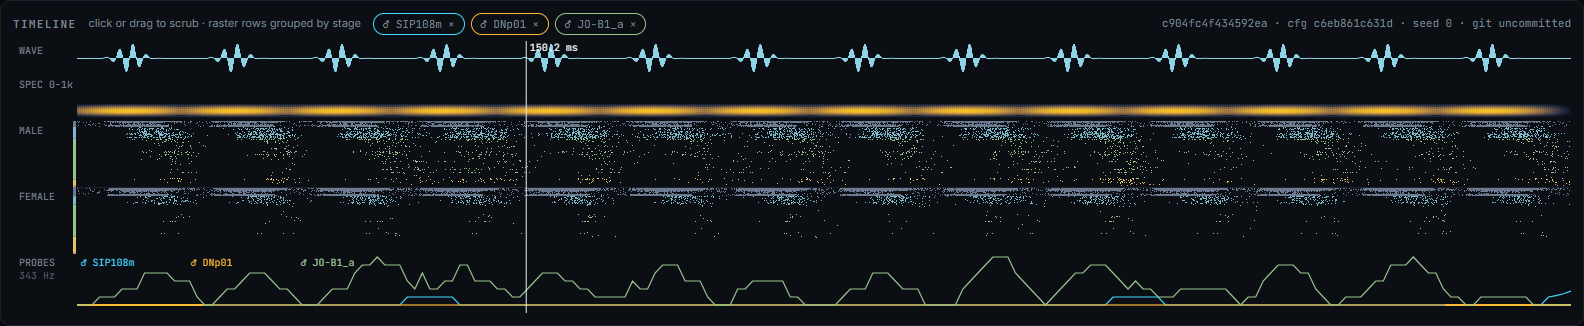
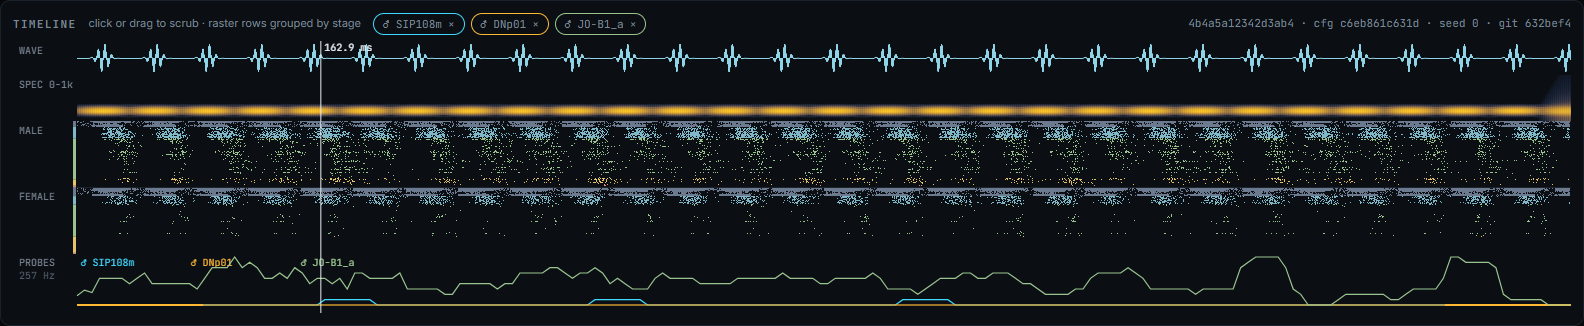
Add full-sweep results, conclusion and final screenshots

diff --git a/docs/RESULTS.md b/docs/RESULTS.md
@@ -1,6 +1,6 @@
 # Results
 
-_Generated by `docs/make_results.py` from `data/results/results.json` — sweep mode **quick**, 4×4 grid, 5 seeds, 0.5 s per trial, config `c6eb861c631d`, created 2026-10-30T02:01:44, runtime 0.5 h._
+_Generated by `docs/make_results.py` from `data/results/results.json` — sweep mode **full**, 12×9 grid, 5 seeds, 1.0 s per trial, config `c6eb861c631d`, created 2026-10-30T13:10:06, runtime 3.3 h._
 
 All values are firing rates (Hz) of the **target set** (song detectors + receptivity cells) — **model predictions**, with bootstrap 95% confidence intervals over seeds.
 
@@ -19,30 +19,46 @@ Does the target set fire more for pulse song (35 ms IPI, 220 Hz) than for phase-
 
 | | Pulse song | Scrambled | Noise | Sine | Pulse − scrambled | Pulse − noise | Result |
 |---|---|---|---|---|---|---|---|
-| **male** | 0.27 | 1.52 | 0.62 | 1.47 | -1.25 [-1.36, -1.16] | -0.35 [-0.42, -0.28] | **FAIL** |
+| **male** | 0.23 | 1.47 | 0.64 | 1.50 | -1.24 [-1.32, -1.15] | -0.41 [-0.51, -0.32] | **FAIL** |
 | **female** | 0.00 | 0.00 | 0.00 | 0.00 | 0.00 [0.00, 0.00] | 0.00 [0.00, 0.00] | **FAIL** |
 
 ## 3. IPI × carrier sweep
 
 ### Male — pulse song
 
-Peak: **15 ms IPI / 220 Hz (1.52 Hz)**
+Peak: **15 ms IPI / 200 Hz (1.58 Hz)**
 
-| IPI (ms) \ carrier (Hz) | 100 | 220 | 350 | 500 |
-|---|---|---|---|---|
-| **15** | 1.05 | 1.52 | 0.82 | 0.23 |
-| **35** | 0.63 | 0.27 | 0.07 | 0.03 |
-| **60** | 0.35 | 0.13 | 0.08 | 0.01 |
-| **90** | 0.23 | 0.11 | 0.05 | 0.02 |
+| IPI (ms) \ carrier (Hz) | 100 | 150 | 200 | 250 | 300 | 350 | 400 | 450 | 500 |
+|---|---|---|---|---|---|---|---|---|---|
+| **15** | 1.05 | 1.36 | 1.58 | 1.37 | 1.20 | 0.88 | 0.59 | 0.45 | 0.27 |
+| **20** | 1.00 | 1.22 | 1.16 | 0.81 | 0.47 | 0.25 | 0.18 | 0.13 | 0.09 |
+| **25** | 0.90 | 0.93 | 0.55 | 0.41 | 0.28 | 0.15 | 0.08 | 0.05 | 0.03 |
+| **30** | 0.91 | 0.58 | 0.34 | 0.21 | 0.16 | 0.09 | 0.05 | 0.04 | 0.02 |
+| **35** | 0.61 | 0.41 | 0.29 | 0.21 | 0.14 | 0.08 | 0.03 | 0.03 | 0.01 |
+| **40** | 0.60 | 0.32 | 0.24 | 0.16 | 0.11 | 0.07 | 0.04 | 0.01 | 0.02 |
+| **45** | 0.48 | 0.28 | 0.20 | 0.16 | 0.12 | 0.07 | 0.03 | 0.02 | 0.01 |
+| **50** | 0.39 | 0.22 | 0.18 | 0.14 | 0.10 | 0.06 | 0.04 | 0.02 | 0.01 |
+| **60** | 0.33 | 0.20 | 0.15 | 0.12 | 0.09 | 0.07 | 0.04 | 0.02 | 0.01 |
+| **70** | 0.27 | 0.16 | 0.12 | 0.10 | 0.08 | 0.07 | 0.04 | 0.03 | 0.02 |
+| **80** | 0.26 | 0.18 | 0.11 | 0.10 | 0.06 | 0.05 | 0.04 | 0.03 | 0.02 |
+| **90** | 0.26 | 0.17 | 0.13 | 0.09 | 0.07 | 0.06 | 0.04 | 0.03 | 0.02 |
 
 <details><summary>Male — phase-scrambled control grid</summary>
 
-| IPI (ms) \ carrier (Hz) | 100 | 220 | 350 | 500 |
-|---|---|---|---|---|
-| **15** | 0.94 | 1.56 | 1.49 | 1.10 |
-| **35** | 0.80 | 1.52 | 1.42 | 1.11 |
-| **60** | 0.82 | 1.43 | 1.43 | 1.04 |
-| **90** | 0.93 | 1.49 | 1.42 | 1.11 |
+| IPI (ms) \ carrier (Hz) | 100 | 150 | 200 | 250 | 300 | 350 | 400 | 450 | 500 |
+|---|---|---|---|---|---|---|---|---|---|
+| **15** | 0.94 | 1.26 | 1.60 | 1.58 | 1.60 | 1.52 | 1.35 | 1.29 | 1.18 |
+| **20** | 1.03 | 1.41 | 1.55 | 1.62 | 1.52 | 1.60 | 1.40 | 1.24 | 1.18 |
+| **25** | 0.90 | 1.35 | 1.53 | 1.65 | 1.64 | 1.58 | 1.44 | 1.33 | 1.17 |
+| **30** | 0.93 | 1.24 | 1.51 | 1.56 | 1.59 | 1.47 | 1.44 | 1.26 | 1.12 |
+| **35** | 0.91 | 1.33 | 1.48 | 1.53 | 1.54 | 1.49 | 1.45 | 1.27 | 1.14 |
+| **40** | 0.86 | 1.26 | 1.56 | 1.56 | 1.50 | 1.36 | 1.36 | 1.22 | 1.09 |
+| **45** | 0.80 | 1.24 | 1.36 | 1.58 | 1.48 | 1.46 | 1.35 | 1.28 | 1.12 |
+| **50** | 0.92 | 1.17 | 1.54 | 1.52 | 1.49 | 1.43 | 1.35 | 1.25 | 1.10 |
+| **60** | 0.74 | 1.18 | 1.51 | 1.50 | 1.49 | 1.50 | 1.41 | 1.27 | 1.10 |
+| **70** | 0.85 | 1.26 | 1.44 | 1.57 | 1.52 | 1.39 | 1.33 | 1.27 | 1.11 |
+| **80** | 0.80 | 1.28 | 1.53 | 1.53 | 1.52 | 1.46 | 1.42 | 1.19 | 1.09 |
+| **90** | 0.78 | 1.30 | 1.47 | 1.51 | 1.51 | 1.39 | 1.28 | 1.28 | 1.17 |
 
 </details>
 
@@ -50,21 +66,37 @@ Peak: **15 ms IPI / 220 Hz (1.52 Hz)**
 
 Peak: **none — no target response anywhere on the grid**
 
-| IPI (ms) \ carrier (Hz) | 100 | 220 | 350 | 500 |
-|---|---|---|---|---|
-| **15** | 0.00 | 0.00 | 0.00 | 0.00 |
-| **35** | 0.00 | 0.00 | 0.00 | 0.00 |
-| **60** | 0.00 | 0.00 | 0.00 | 0.00 |
-| **90** | 0.00 | 0.00 | 0.00 | 0.00 |
+| IPI (ms) \ carrier (Hz) | 100 | 150 | 200 | 250 | 300 | 350 | 400 | 450 | 500 |
+|---|---|---|---|---|---|---|---|---|---|
+| **15** | 0.00 | 0.00 | 0.00 | 0.00 | 0.00 | 0.00 | 0.00 | 0.00 | 0.00 |
+| **20** | 0.00 | 0.00 | 0.00 | 0.00 | 0.00 | 0.00 | 0.00 | 0.00 | 0.00 |
+| **25** | 0.00 | 0.00 | 0.00 | 0.00 | 0.00 | 0.00 | 0.00 | 0.00 | 0.00 |
+| **30** | 0.00 | 0.00 | 0.00 | 0.00 | 0.00 | 0.00 | 0.00 | 0.00 | 0.00 |
+| **35** | 0.00 | 0.00 | 0.00 | 0.00 | 0.00 | 0.00 | 0.00 | 0.00 | 0.00 |
+| **40** | 0.00 | 0.00 | 0.00 | 0.00 | 0.00 | 0.00 | 0.00 | 0.00 | 0.00 |
+| **45** | 0.00 | 0.00 | 0.00 | 0.00 | 0.00 | 0.00 | 0.00 | 0.00 | 0.00 |
+| **50** | 0.00 | 0.00 | 0.00 | 0.00 | 0.00 | 0.00 | 0.00 | 0.00 | 0.00 |
+| **60** | 0.00 | 0.00 | 0.00 | 0.00 | 0.00 | 0.00 | 0.00 | 0.00 | 0.00 |
+| **70** | 0.00 | 0.00 | 0.00 | 0.00 | 0.00 | 0.00 | 0.00 | 0.00 | 0.00 |
+| **80** | 0.00 | 0.00 | 0.00 | 0.00 | 0.00 | 0.00 | 0.00 | 0.00 | 0.00 |
+| **90** | 0.00 | 0.00 | 0.00 | 0.00 | 0.00 | 0.00 | 0.00 | 0.00 | 0.00 |
 
 <details><summary>Female — phase-scrambled control grid</summary>
 
-| IPI (ms) \ carrier (Hz) | 100 | 220 | 350 | 500 |
-|---|---|---|---|---|
-| **15** | 0.00 | 0.00 | 0.00 | 0.00 |
-| **35** | 0.00 | 0.00 | 0.00 | 0.00 |
-| **60** | 0.00 | 0.00 | 0.00 | 0.00 |
-| **90** | 0.00 | 0.00 | 0.00 | 0.00 |
+| IPI (ms) \ carrier (Hz) | 100 | 150 | 200 | 250 | 300 | 350 | 400 | 450 | 500 |
+|---|---|---|---|---|---|---|---|---|---|
+| **15** | 0.00 | 0.00 | 0.00 | 0.00 | 0.00 | 0.00 | 0.00 | 0.00 | 0.00 |
+| **20** | 0.00 | 0.00 | 0.00 | 0.00 | 0.00 | 0.00 | 0.00 | 0.00 | 0.00 |
+| **25** | 0.00 | 0.00 | 0.00 | 0.00 | 0.00 | 0.00 | 0.00 | 0.00 | 0.00 |
+| **30** | 0.00 | 0.00 | 0.00 | 0.00 | 0.00 | 0.00 | 0.00 | 0.00 | 0.00 |
+| **35** | 0.00 | 0.00 | 0.00 | 0.00 | 0.00 | 0.00 | 0.00 | 0.00 | 0.00 |
+| **40** | 0.00 | 0.00 | 0.00 | 0.00 | 0.00 | 0.00 | 0.00 | 0.00 | 0.00 |
+| **45** | 0.00 | 0.00 | 0.00 | 0.00 | 0.00 | 0.00 | 0.00 | 0.00 | 0.00 |
+| **50** | 0.00 | 0.00 | 0.00 | 0.00 | 0.00 | 0.00 | 0.00 | 0.00 | 0.00 |
+| **60** | 0.00 | 0.00 | 0.00 | 0.00 | 0.00 | 0.00 | 0.00 | 0.00 | 0.00 |
+| **70** | 0.00 | 0.00 | 0.00 | 0.00 | 0.00 | 0.00 | 0.00 | 0.00 | 0.00 |
+| **80** | 0.00 | 0.00 | 0.00 | 0.00 | 0.00 | 0.00 | 0.00 | 0.00 | 0.00 |
+| **90** | 0.00 | 0.00 | 0.00 | 0.00 | 0.00 | 0.00 | 0.00 | 0.00 | 0.00 |
 
 </details>
 
@@ -76,17 +108,17 @@ An effect is **robust** only if it is significant at baseline, keeps its sign an
 
 | Effect | Baseline (w≥5) | Weight ≥ 10 | Low-conf signs flipped | Shuffled connectome | Scrambled audio | Failed checks | Verdict |
 |---|---|---|---|---|---|---|---|
-| male · song vs scrambled | -1.25 [-1.36, -1.16] | -0.53 [-0.59, -0.48] | -1.39 [-1.49, -1.26] | -3.80 [-3.98, -3.62] | — | smaller on shuffled wiring | **not robust** |
-| male · song vs noise | -0.35 [-0.42, -0.28] | -0.16 [-0.20, -0.12] | -0.32 [-0.36, -0.29] | -3.13 [-3.54, -2.79] | — | smaller on shuffled wiring | **not robust** |
-| male · ipi tuning | 0.56 [0.55, 0.56] | 0.22 [0.21, 0.24] | 0.67 [0.65, 0.70] | 2.48 [2.41, 2.54] | 0.07 [0.04, 0.11] | smaller on shuffled wiring | **not robust** |
-| female · song vs scrambled | 0.00 [0.00, 0.00] | 0.00 [0.00, 0.00] | -0.01 [-0.03, 0.00] | -0.26 [-0.29, -0.21] | — | significant at baseline, survives w≥10, survives sign flip | **not robust** |
-| female · song vs noise | 0.00 [0.00, 0.00] | 0.00 [0.00, 0.00] | 0.00 [0.00, 0.00] | -0.05 [-0.11, 0.01] | — | significant at baseline, survives w≥10, survives sign flip | **not robust** |
-| female · ipi tuning | 0.00 [0.00, 0.00] | 0.00 [0.00, 0.00] | 0.02 [0.01, 0.02] | 0.13 [0.10, 0.16] | 0.00 [0.00, 0.00] | significant at baseline, survives w≥10, survives sign flip, smaller with scrambled audio | **not robust** |
-| sex difference · pulse35 male minus female | 0.27 [0.24, 0.30] | 0.09 [0.07, 0.10] | 0.31 [0.25, 0.37] | 1.87 [1.76, 2.01] | — | smaller on shuffled wiring | **not robust** |
+| male · song vs scrambled | -1.24 [-1.32, -1.15] | -0.62 [-0.65, -0.57] | -1.62 [-1.80, -1.41] | -4.18 [-4.38, -3.99] | — | smaller on shuffled wiring | **not robust** |
+| male · song vs noise | -0.41 [-0.51, -0.32] | -0.18 [-0.20, -0.17] | -0.39 [-0.44, -0.32] | -3.33 [-3.75, -2.98] | — | smaller on shuffled wiring | **not robust** |
+| male · ipi tuning | 0.70 [0.68, 0.72] | 0.29 [0.27, 0.29] | 0.80 [0.78, 0.83] | 2.66 [2.60, 2.71] | 0.10 [0.08, 0.11] | smaller on shuffled wiring | **not robust** |
+| female · song vs scrambled | 0.00 [0.00, 0.00] | 0.00 [0.00, 0.00] | -0.03 [-0.05, -0.01] | -0.27 [-0.30, -0.22] | — | significant at baseline, survives w≥10, survives sign flip | **not robust** |
+| female · song vs noise | 0.00 [0.00, 0.00] | 0.00 [0.00, 0.00] | -0.00 [-0.01, 0.00] | -0.04 [-0.08, 0.00] | — | significant at baseline, survives w≥10, survives sign flip | **not robust** |
+| female · ipi tuning | 0.00 [0.00, 0.00] | 0.00 [0.00, 0.00] | 0.01 [0.01, 0.01] | 0.16 [0.14, 0.18] | 0.00 [0.00, 0.00] | significant at baseline, survives w≥10, survives sign flip, smaller with scrambled audio | **not robust** |
+| sex difference · pulse35 male minus female | 0.23 [0.22, 0.24] | 0.07 [0.06, 0.08] | 0.24 [0.19, 0.29] | 1.83 [1.79, 1.87] | — | smaller on shuffled wiring | **not robust** |
 
 ## 5. Where the signal goes (pulse song, mean rate per neuron by stage)
 
 | | JO | AMMC | Wedge | Song det. | Receptivity |
 |---|---|---|---|---|---|
-| male | 53.72 | 5.72 | 0.80 | 1.07 | 0.16 |
-| female | 68.71 | 3.40 | 0.15 | 0.01 | 0.00 |
+| male | 54.20 | 5.74 | 0.83 | 1.06 | 0.12 |
+| female | 69.28 | 3.41 | 0.15 | 0.01 | 0.00 |

diff --git a/README.md b/README.md
@@ -125,7 +125,35 @@ An effect counts as **robust** only if it survives the threshold and sign-uncert
 ## 5. Results
 
 <!-- RESULTS:START -->
-_Results are being finalised from the full sweep. See [docs/RESULTS.md](docs/RESULTS.md) for every number._
+**Full sweep:** 12 IPIs × 9 carriers × 5 seeds, 1 s per trial, in both connectomes, plus all four controls. That is 5,560 simulated trials in 3.3 h on CPU. Every number is a **model prediction** with a bootstrap 95% CI over seeds.
+
+**Validation check:** does the target set fire more for pulse song (35 ms, 220 Hz) than for scrambled song and white noise?
+
+| | Pulse song | Scrambled | Noise | Sine | Pulse − scrambled | Pulse − noise | Result |
+|---|---|---|---|---|---|---|---|
+| **Male** (MaleCNS) | 0.23 Hz | 1.47 Hz | 0.64 Hz | 1.50 Hz | −1.24 [−1.32, −1.15] | −0.41 [−0.51, −0.32] | **FAIL** |
+| **Female** (FlyWire) | 0.00 Hz | 0.00 Hz | 0.00 Hz | 0.00 Hz | 0.00 [0.00, 0.00] | 0.00 [0.00, 0.00] | **FAIL** |
+
+**Key findings**
+
+1. **Male targets do respond, but they prefer sound energy, not the song rhythm.**
+   - Scrambled song, noise and sine song all drive the targets more than real pulse song.
+   - On the pulse grid, the response is highest at the *fastest* rate tested (**15 ms IPI / 200 Hz, 1.58 Hz**) and falls steadily as the IPI grows. There is no peak near the natural ~35 ms.
+   - The scrambled grid sits at about 1.5 Hz everywhere.
+2. **In the female connectome the signal dies before it reaches the targets.**
+   - Mean rate per neuron for pulse song: JO **69.3 Hz** → AMMC **3.4** → wedge **0.15** → song detectors **0.01** → receptivity **0.00**.
+   - The target set is silent for every stimulus.
+3. **No effect passed the robustness test.**
+   - Male IPI tuning (0.70 Hz [0.68, 0.72]) and the male–female difference (0.23 Hz) are significant. Both survive the weight-≥10 and sign-flip controls.
+   - Both are **larger on the degree-preserving shuffled wiring** (2.66 Hz and 1.83 Hz). That means they come from network density and input drive, not from the specific connectome.
+   - The female effects are absent at baseline.
+
+| Effect (Hz) | Baseline | Weight ≥ 10 | Signs flipped | Shuffled wiring | Verdict |
+|---|---|---|---|---|---|
+| Male: pulse − scrambled | −1.24 | −0.62 | −1.62 | −4.18 | not robust |
+| Male: IPI tuning | 0.70 | 0.29 | 0.80 | 2.66 | not robust |
+| Male − female (pulse) | 0.23 | 0.07 | 0.24 | 1.83 | not robust |
+| Female: any effect | 0.00 | 0.00 | ≈ 0 | non-zero | not robust |
 <!-- RESULTS:END -->
 
 ![Sweep heatmaps from the pipeline](docs/images/13-pipeline-heatmaps.png)
@@ -137,7 +165,23 @@ All tables (subnetworks, validation, the full grids, robustness, stage-by-stage 
 ## 6. Conclusion
 
 <!-- CONCLUSION:START -->
-_To be written from the full-sweep results._
+**The hypothesis is not supported by this model.** Wiring diagrams plus a uniform leaky integrate-and-fire model, with no tuning, do **not** make the fly's song circuit prefer its own species' song in either sex. Specifically:
+
+- **Male (MaleCNS).** Sound reaches the song-detector and receptivity cells, but they track how much sound arrives, not its rhythm. Faster pulse trains and scrambled sound drive them harder, and a shuffled network with the same connection counts does the same, only more strongly.
+- **Female (FlyWire).** Activity fades out between the AMMC and the wedge, so the targets never fire. Possible causes, none tested yet:
+  - the 8,000-neuron cap cutting inputs;
+  - FlyWire's sparser edge table (2.7 M vs 25.6 M edges);
+  - the single global synaptic weight.
+
+None of these is proof that the real circuit lacks song selectivity. Experiments show that real flies *do* prefer conspecific IPIs. The result instead suggests that the **connectome alone is not enough** in this kind of model. Song tuning likely also depends on things the model leaves out, such as cell-specific membrane dynamics, synaptic time constants and adaptation, neuromodulation, and graded (non-spiking) signalling early in the pathway.
+
+**Next steps**
+- Raise or remove the neuron cap for the female network.
+- Use transmitter-specific weights and time constants.
+- Add short-term plasticity or adaptation to AMMC/wedge neurons.
+- Compare against recorded pC2/vpoEN tuning curves.
+
+The pipeline, controls and web app are built so that each of these changes can be swapped in and re-tested with one command.
 <!-- CONCLUSION:END -->
 
 ---
